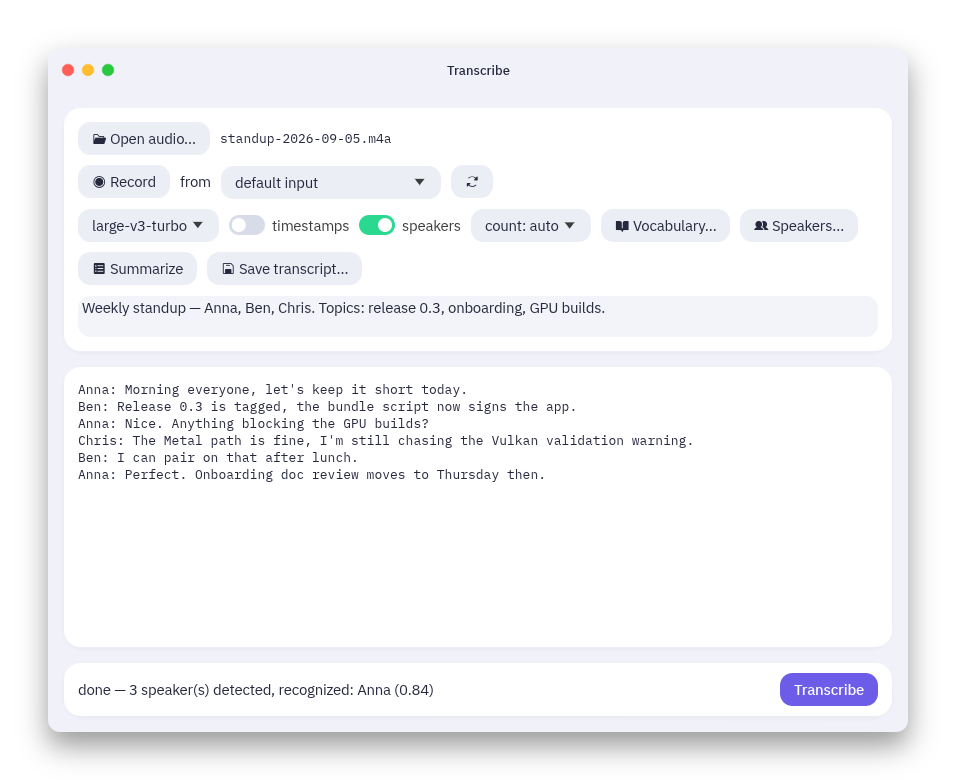
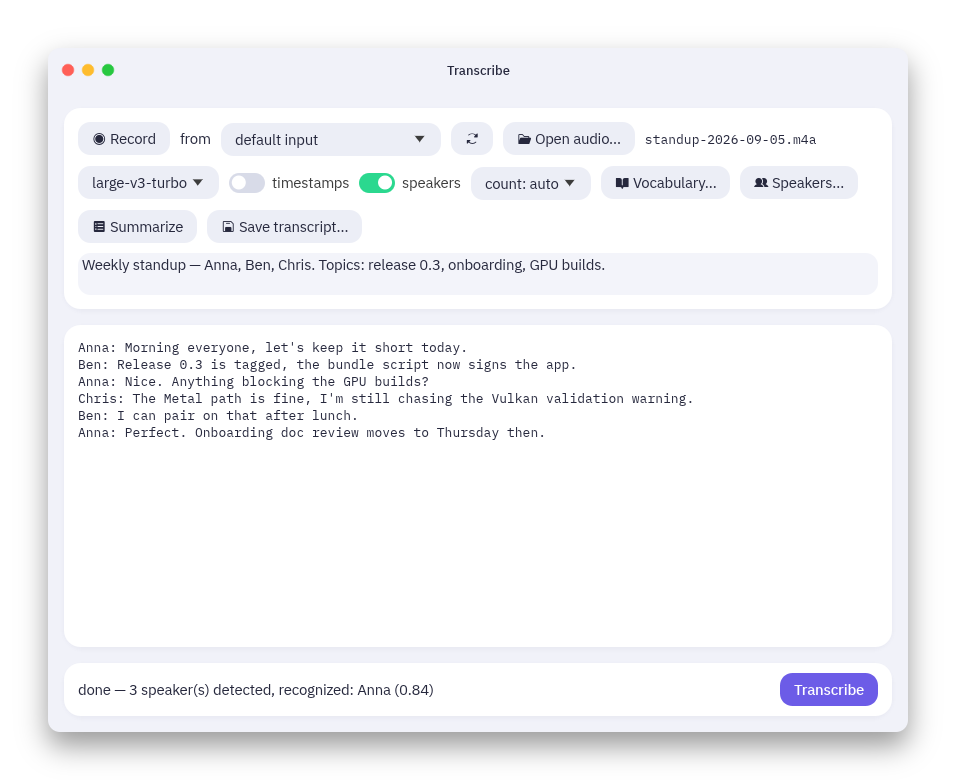
Put Open audio after the device refresh button
The source row and the record row merge into one: Record from a device,
refresh, Open audio, then whatever is loaded or recording.

Claude-Session: https://claude.ai/code/session_01BGQx1DyoMX4zExfvgENncS

diff --git a/src/bin/transcribe-gui.rs b/src/bin/transcribe-gui.rs
@@ -896,7 +896,31 @@ impl eframe::App for App {
             .frame(top_frame)
             .show_separator_line(false)
             .show(ui, |ui| {
-            ui.horizontal(|ui| {
+            // One row: record from a device, or open a file; then what's loaded.
+            ui.horizontal_wrapped(|ui| {
+                let record_button = if recording {
+                    filled_button(format!("{STOP} Stop"), RED)
+                } else {
+                    egui::Button::new(format!("{RECORD} Record"))
+                };
+                let can_record = running.is_none() && self.enroll_recorder.is_none();
+                if ui.add_enabled(can_record, record_button).clicked() {
+                    self.toggle_recording();
+                }
+                ui.label("from");
+                let selected = self.device.clone().unwrap_or_else(|| "default input".into());
+                egui::ComboBox::from_id_salt("device")
+                    .selected_text(selected)
+                    .width(220.0)
+                    .show_ui(ui, |ui| {
+                        ui.selectable_value(&mut self.device, None, "default input");
+                        for name in &self.devices {
+                            ui.selectable_value(&mut self.device, Some(name.clone()), name);
+                        }
+                    });
+                if ui.button(ARROWS_CLOCKWISE).on_hover_text("refresh device list").clicked() {
+                    self.devices = recorder::input_devices();
+                }
                 if ui
                     .add_enabled(!busy, egui::Button::new(format!("{FOLDER_OPEN} Open audio…")))
                     .clicked()
@@ -938,31 +962,6 @@ impl eframe::App for App {
                         ui.weak("no audio loaded");
                     }
                 };
-            });
-            ui.horizontal(|ui| {
-                let record_button = if recording {
-                    filled_button(format!("{STOP} Stop"), RED)
-                } else {
-                    egui::Button::new(format!("{RECORD} Record"))
-                };
-                let can_record = running.is_none() && self.enroll_recorder.is_none();
-                if ui.add_enabled(can_record, record_button).clicked() {
-                    self.toggle_recording();
-                }
-                ui.label("from");
-                let selected = self.device.clone().unwrap_or_else(|| "default input".into());
-                egui::ComboBox::from_id_salt("device")
-                    .selected_text(selected)
-                    .width(220.0)
-                    .show_ui(ui, |ui| {
-                        ui.selectable_value(&mut self.device, None, "default input");
-                        for name in &self.devices {
-                            ui.selectable_value(&mut self.device, Some(name.clone()), name);
-                        }
-                    });
-                if ui.button(ARROWS_CLOCKWISE).on_hover_text("refresh device list").clicked() {
-                    self.devices = recorder::input_devices();
-                }
             });
             ui.horizontal_wrapped(|ui| {
                 let labels: Vec<(String, String)> = WHISPER_MODELS
